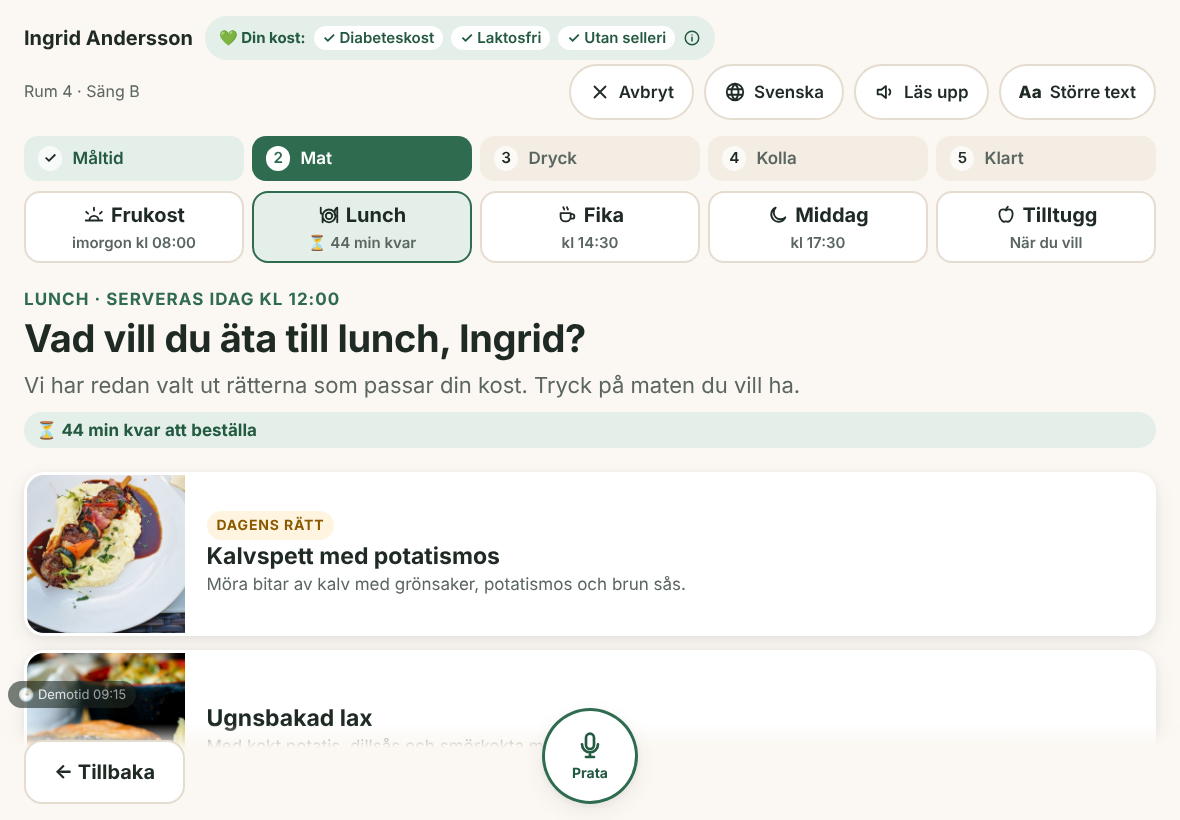
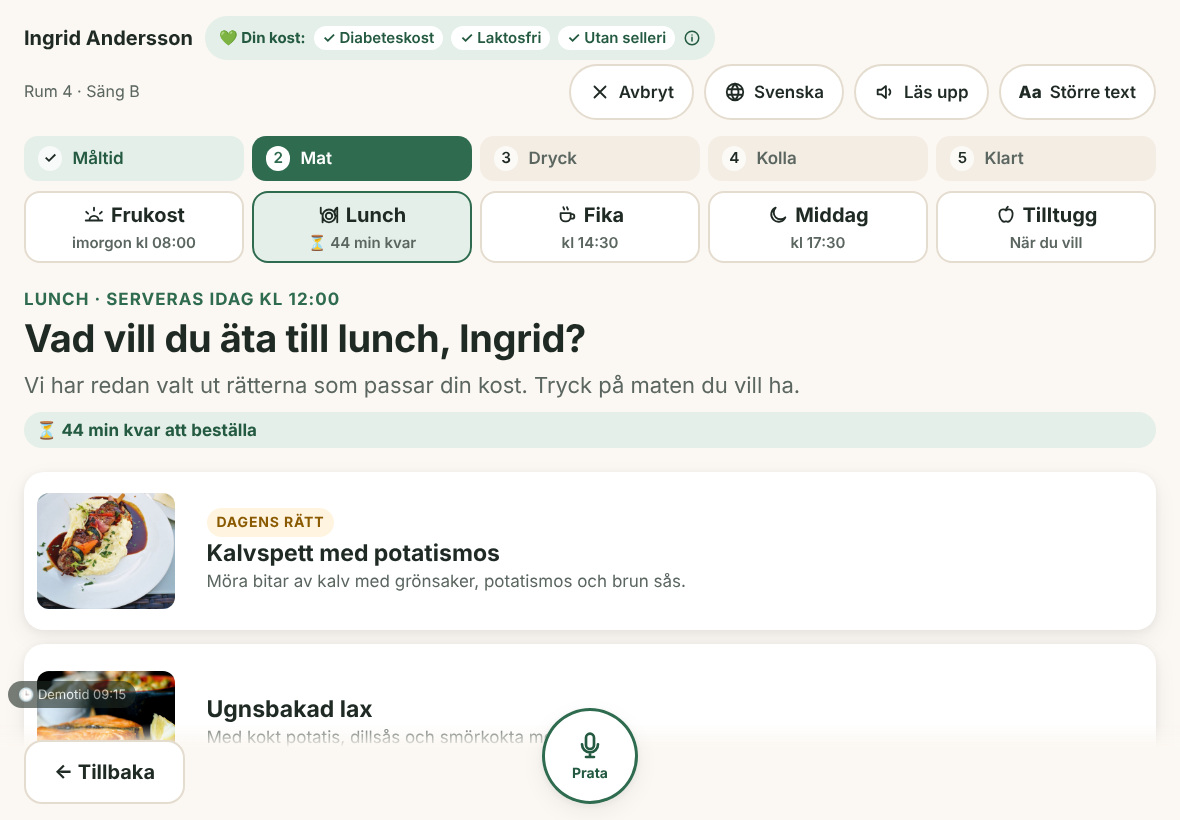
Menyn: hela bilder i egna proportioner, beskrivningen syns igen
- Bilden visas hel, utan beskärning, i sina egna proportioner inom en fast ruta
  till vänster om texten. Raderna är lika höga och fyra rätter syns på surfplattan.
- Beskrivningen syns igen på mobil (högst två rader), och bilderna är mindre där.
- Små bilder i "Dina beställningar", "Stämmer det här?" och kvittot beskärs inte heller.

Claude-Session: https://claude.ai/code/session_01W2bM9vS6XV6jr7pPMAABKn

Changed region(s): [[0.0, 0.5793, 0.9763, 0.9146]]

diff --git a/src/app/globals.css b/src/app/globals.css
@@ -430,7 +430,14 @@ button:focus-visible {
   height: 80px;
   flex: none;
   border-radius: 14px;
-  object-fit: cover;
+}
+
+/* Matbilder visas hela – ingenting beskärs. */
+img.order-image,
+img.summary-image,
+.done-receipt-image {
+  object-fit: contain;
+  border-radius: 8px;
 }
 
 .order-body {
@@ -1134,14 +1141,23 @@ button:focus-visible {
   --dish-size: clamp(112px, calc((100dvh - 110px) / 4 - 20px), 180px);
 }
 
+/* Bilden visas hel, i sina egna proportioner, inom en fast ruta till vänster om texten. */
+.dish-thumb {
+  width: var(--dish-size);
+  flex: none;
+  display: flex;
+  align-items: center;
+  justify-content: center;
+  padding: 10px;
+}
+
 .dish-image {
   display: block;
-  width: var(--dish-size);
-  height: var(--dish-size);
-  flex-shrink: 0;
-  align-self: center;
-  object-fit: cover;
-  background: var(--surface-2);
+  width: auto;
+  height: auto;
+  max-width: 100%;
+  max-height: calc(var(--dish-size) - 20px);
+  border-radius: 12px;
 }
 
 .dish-body {
@@ -1581,8 +1597,6 @@ html[data-text-size="stor"] .dish-body p {
 .done-receipt-image {
   width: 56px;
   height: 56px;
-  border-radius: 10px;
-  object-fit: cover;
 }
 
 .done-receipt-text {
@@ -2129,12 +2143,13 @@ html[data-text-size="stor"] .dish-body p {
   margin-top: 16px;
 }
 
-/* Mobil: lägre rader, smalare bild och ingen beskrivning – den finns på rättens sida. */
+/* Mobil: lägre rader och mindre bild. Beskrivningen syns (högst två rader). */
 @media (max-width: 560px) {
-  .dish-grid { --dish-size: 112px; }
-  .dish-body { padding: 10px 14px; }
+  .dish-grid { --dish-size: 104px; }
+  .dish-thumb { padding: 8px; }
+  .dish-image { max-height: calc(var(--dish-size) - 16px); border-radius: 10px; }
+  .dish-body { padding: 10px 14px 10px 4px; }
   .dish-body h2 { font-size: 1em; }
-  .dish-body p { display: none; }
   .summary { padding: 12px 18px; }
   .summary-row { gap: 20px; }
 }

diff --git a/src/app/meny/page.tsx b/src/app/meny/page.tsx
@@ -137,7 +137,7 @@ function Menu() {
               className={`dish ${order.dishId === dish.id ? "selected" : ""} ${suggested ? "suggested" : ""}`}
               onClick={() => choose(dish.id)}
             >
-              <img className="dish-image" src={dish.image} alt={text.imageAlt} loading="lazy" decoding="async" />
+              <span className="dish-thumb"><img className="dish-image" src={dish.image} alt={text.imageAlt} loading="lazy" decoding="async" /></span>
               <div className="dish-body">
                 {suggested && (
                   <span className="dish-suggestion">⭐ {m.suggestion} · {m.suggestionWhy(topReason!)}</span>
@@ -183,7 +183,7 @@ function Menu() {
                   return (
                     // Inte en knapp: dolda rätter går inte att välja.
                     <li key={dish.id} className="dish blocked" aria-disabled="true">
-                      <img className="dish-image" src={dish.image} alt={text.imageAlt} loading="lazy" decoding="async" />
+                      <span className="dish-thumb"><img className="dish-image" src={dish.image} alt={text.imageAlt} loading="lazy" decoding="async" /></span>
                       <div className="dish-body">
                         <span className="dish-label dish-blocked">🚫 {m.notOrderable}</span>
                         <h3>{text.name}</h3>
